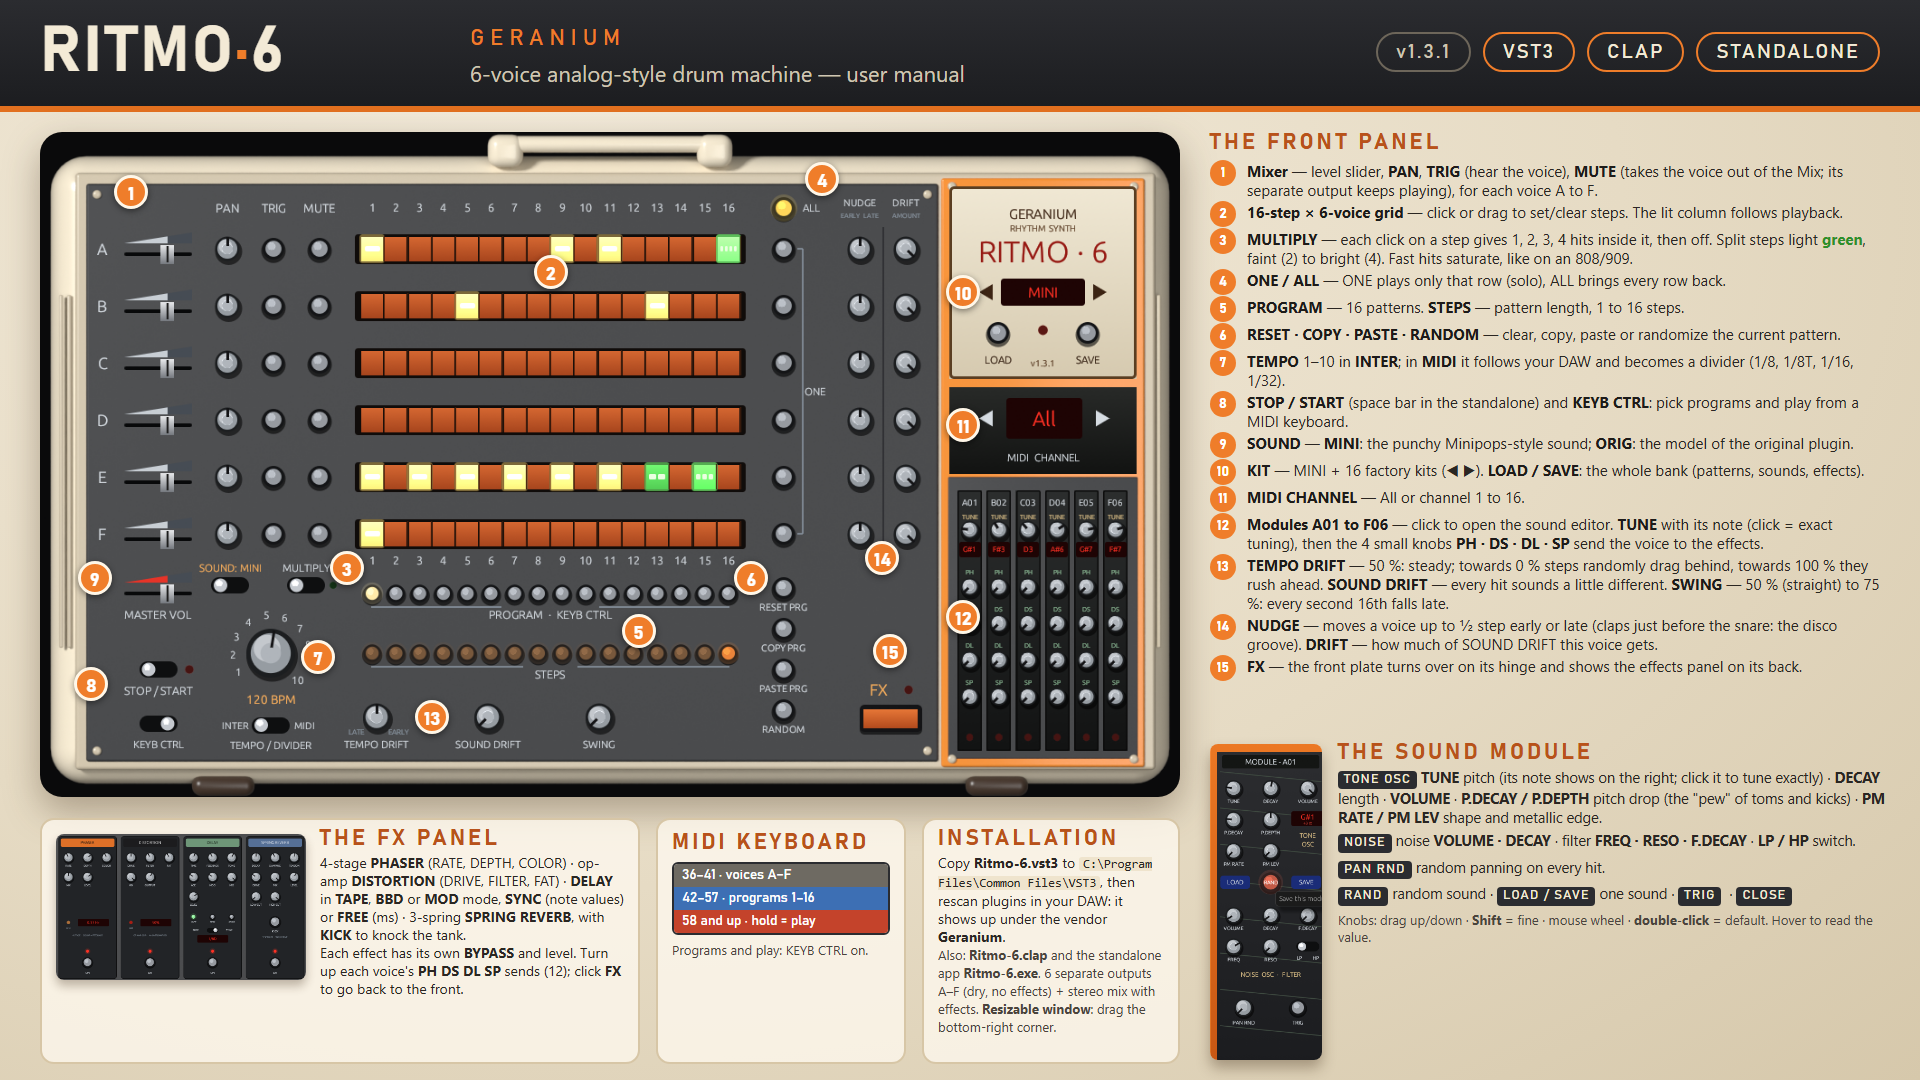
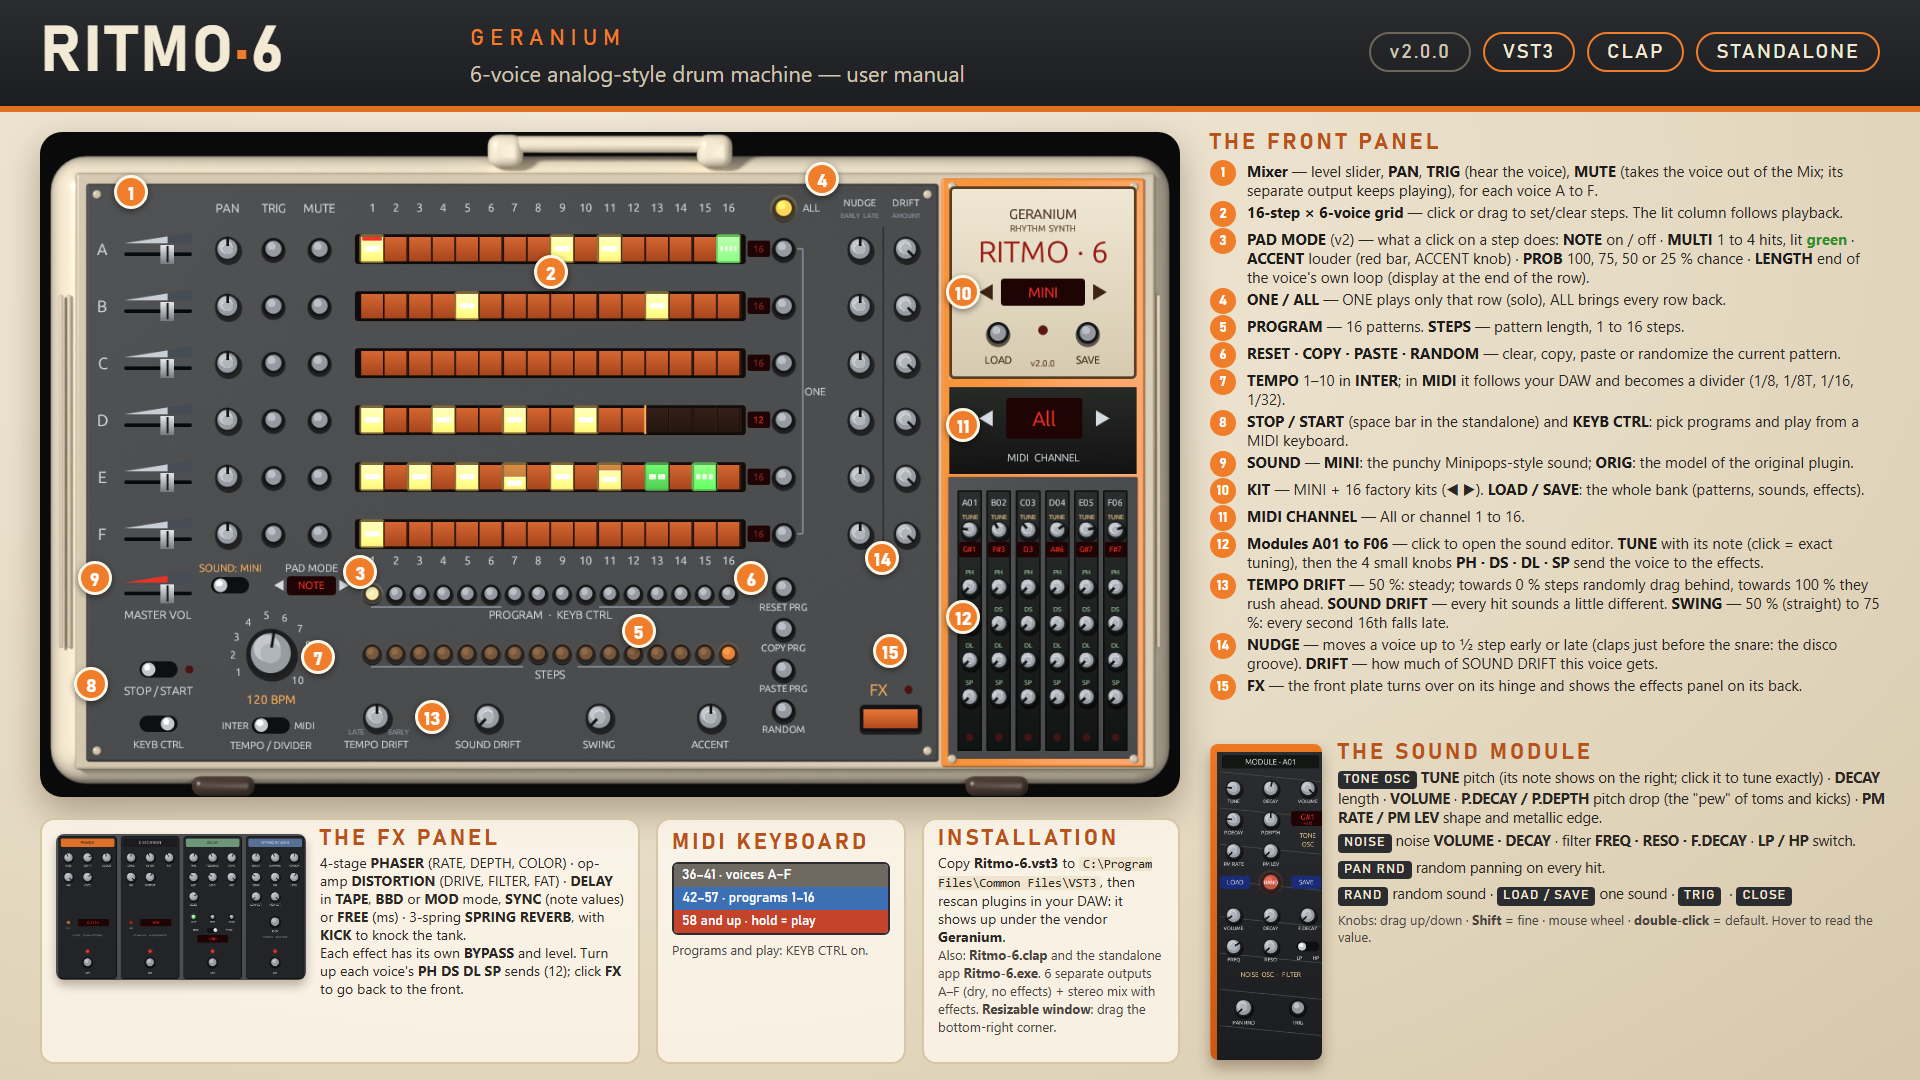
Ritmo-6 v2.0.0 — code source complet (manual, plugin, .cargo)
Mode d'emploi redessiné avec la façade v2, plugin en 2.0.0 (paramètre ACCENT),
et .cargo/config.toml (runtime C statique) qui manquait au dépôt.

diff --git a/manual/manual.html b/manual/manual.html
@@ -69,13 +69,13 @@
   <div class="title">RITMO<span>·</span>6</div>
   <div class="brand">GERANIUM</div>
   <div class="sub">Boîte à rythmes analogique 6 voix — mode d'emploi</div>
-  <div class="formats"><div class="ver">v1.3.1</div><div>VST3</div><div>CLAP</div><div>AUTONOME</div></div>
+  <div class="formats"><div class="ver">v2.0.0</div><div>VST3</div><div>CLAP</div><div>AUTONOME</div></div>
 
   <div class="panel">
     <img src="panel.png">
     <div class="mk" style="left:8%;top:9%">1</div>
     <div class="mk" style="left:44.8%;top:21%">2</div>
-    <div class="mk" style="left:26.9%;top:65.5%">3</div>
+    <div class="mk" style="left:28.1%;top:66.2%">3</div>
     <div class="mk" style="left:68.6%;top:7%">4</div>
     <div class="mk" style="left:52.5%;top:75%">5</div>
     <div class="mk" style="left:62.4%;top:67%">6</div>
@@ -94,7 +94,7 @@
     <h2>LA FAÇADE</h2>
     <div class="item"><div class="num">1</div><div><b>Mixeur</b> — curseur de volume, <b>PAN</b>, <b>TRIG</b> (écouter la voix), <b>MUTE</b> (retire la voix du Mix ; sa sortie séparée continue), pour chaque voix A à F.</div></div>
     <div class="item"><div class="num">2</div><div><b>Grille 16 pas × 6 voix</b> — cliquez ou glissez pour poser/effacer des pas. La colonne qui s'éclaire suit la lecture.</div></div>
-    <div class="item"><div class="num">3</div><div><b>MULTIPLY</b> — chaque clic sur un pas : 1, 2, 3, 4 coups dans le pas, puis vide. Pas divisés en <b style="color:#2f8f2a">vert</b>, du pâle (2) au vif (4). Les coups rapprochés saturent, comme sur une 808/909.</div></div>
+    <div class="item"><div class="num">3</div><div><b>PAD MODE</b> (v2) — ce que fait un clic sur un pas : <b>NOTE</b> allumer · <b>MULTI</b> 1 à 4 coups, en <b style="color:#2f8f2a">vert</b> · <b>ACCENT</b> plus fort (barre rouge, bouton ACCENT) · <b>PROB</b> 100, 75, 50 ou 25 % de chances · <b>LENGTH</b> fin de la boucle propre à la voix (afficheur en bout de ligne).</div></div>
     <div class="item"><div class="num">4</div><div><b>ONE / ALL</b> — ONE fait jouer seulement cette rangée (solo), ALL les rétablit toutes.</div></div>
     <div class="item"><div class="num">5</div><div><b>PROGRAM</b> — 16 motifs. <b>STEPS</b> — longueur du motif, de 1 à 16 pas.</div></div>
     <div class="item"><div class="num">6</div><div><b>RESET · COPY · PASTE · RANDOM</b> — vider, copier, coller ou tirer au sort le motif courant.</div></div>

diff --git a/manual/manual-en.html b/manual/manual-en.html
@@ -69,13 +69,13 @@
   <div class="title">RITMO<span>·</span>6</div>
   <div class="brand">GERANIUM</div>
   <div class="sub">6-voice analog-style drum machine — user manual</div>
-  <div class="formats"><div class="ver">v1.3.1</div><div>VST3</div><div>CLAP</div><div>STANDALONE</div></div>
+  <div class="formats"><div class="ver">v2.0.0</div><div>VST3</div><div>CLAP</div><div>STANDALONE</div></div>
 
   <div class="panel">
     <img src="panel.png">
     <div class="mk" style="left:8%;top:9%">1</div>
     <div class="mk" style="left:44.8%;top:21%">2</div>
-    <div class="mk" style="left:26.9%;top:65.5%">3</div>
+    <div class="mk" style="left:28.1%;top:66.2%">3</div>
     <div class="mk" style="left:68.6%;top:7%">4</div>
     <div class="mk" style="left:52.5%;top:75%">5</div>
     <div class="mk" style="left:62.4%;top:67%">6</div>
@@ -94,7 +94,7 @@
     <h2>THE FRONT PANEL</h2>
     <div class="item"><div class="num">1</div><div><b>Mixer</b> — level slider, <b>PAN</b>, <b>TRIG</b> (hear the voice), <b>MUTE</b> (takes the voice out of the Mix; its separate output keeps playing), for each voice A to F.</div></div>
     <div class="item"><div class="num">2</div><div><b>16-step × 6-voice grid</b> — click or drag to set/clear steps. The lit column follows playback.</div></div>
-    <div class="item"><div class="num">3</div><div><b>MULTIPLY</b> — each click on a step gives 1, 2, 3, 4 hits inside it, then off. Split steps light <b style="color:#2f8f2a">green</b>, faint (2) to bright (4). Fast hits saturate, like on an 808/909.</div></div>
+    <div class="item"><div class="num">3</div><div><b>PAD MODE</b> (v2) — what a click on a step does: <b>NOTE</b> on / off · <b>MULTI</b> 1 to 4 hits, lit <b style="color:#2f8f2a">green</b> · <b>ACCENT</b> louder (red bar, ACCENT knob) · <b>PROB</b> 100, 75, 50 or 25 % chance · <b>LENGTH</b> end of the voice's own loop (display at the end of the row).</div></div>
     <div class="item"><div class="num">4</div><div><b>ONE / ALL</b> — ONE plays only that row (solo), ALL brings every row back.</div></div>
     <div class="item"><div class="num">5</div><div><b>PROGRAM</b> — 16 patterns. <b>STEPS</b> — pattern length, 1 to 16 steps.</div></div>
     <div class="item"><div class="num">6</div><div><b>RESET · COPY · PASTE · RANDOM</b> — clear, copy, paste or randomize the current pattern.</div></div>

diff --git a/plugin/src/lib.rs b/plugin/src/lib.rs
@@ -298,6 +298,8 @@ pub struct RitmoParams {
     pub sound_drift: FloatParam,
     #[id = "swing"]
     pub swing: FloatParam,
+    #[id = "accent"]
+    pub accent: FloatParam,
     #[nested(group = "FX")]
     pub fx: FxParams,
 }
@@ -321,6 +323,7 @@ impl RitmoParams {
             tempo_drift: fparam(ParamId::TempoDrift),
             sound_drift: fparam(ParamId::SoundDrift),
             swing: fparam(ParamId::Swing),
+            accent: fparam(ParamId::Accent),
             fx: FxParams::new(),
         }
     }
@@ -338,6 +341,7 @@ impl RitmoParams {
             ParamId::TempoDrift => F(&self.tempo_drift),
             ParamId::SoundDrift => F(&self.sound_drift),
             ParamId::Swing => F(&self.swing),
+            ParamId::Accent => F(&self.accent),
             ParamId::Send(c, k) => {
                 let ch = &self.ch[c];
                 F([&ch.send_phaser, &ch.send_dist, &ch.send_delay, &ch.send_spring][k.min(3)])
@@ -479,9 +483,16 @@ impl Plugin for Ritmo6 {
                 let access = Access { p: &params, s: setter };
                 // resizable like the standalone (HiDPI screens, bigger panel): drag the corner at the
                 // bottom right; the panel scales to fit and the host keeps the size with the project
-                ResizableWindow::new("ritmo6-window")
-                    .min_size(egui::vec2(ui::W * 0.6, ui::H * 0.6))
-                    .show(ctx, &editor_state, |ui| ui::draw_in(ui, &access, &state, st));
+                // a panic here would cross the host's window code and abort the whole host:
+                // catch it, so at worst the panel skips a frame
+                let drawn = std::panic::catch_unwind(std::panic::AssertUnwindSafe(|| {
+                    ResizableWindow::new("ritmo6-window")
+                        .min_size(egui::vec2(ui::W * 0.6, ui::H * 0.6))
+                        .show(ctx, &editor_state, |ui| ui::draw_in(ui, &access, &state, st));
+                }));
+                if drawn.is_err() {
+                    nih_log!("Ritmo-6: the panel hit an error and skipped a frame");
+                }
             },
         )
     }
